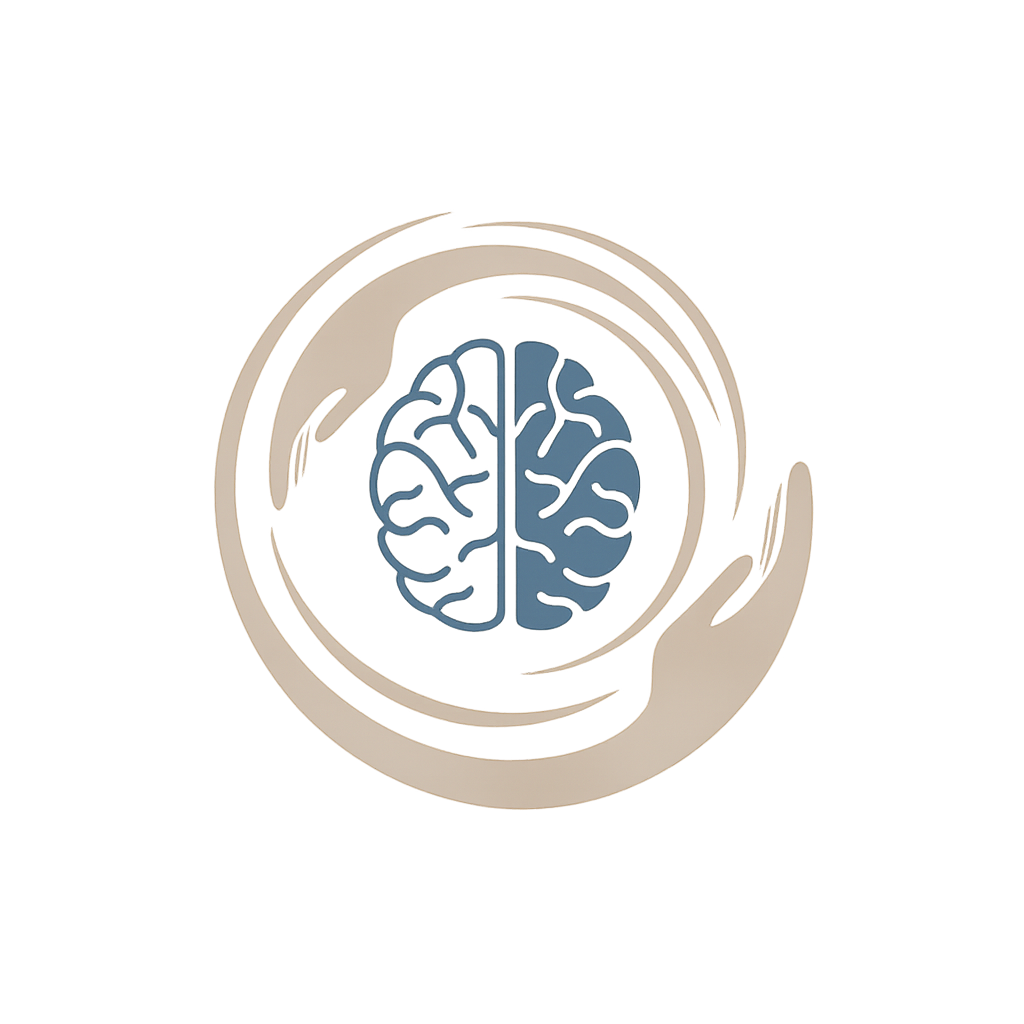
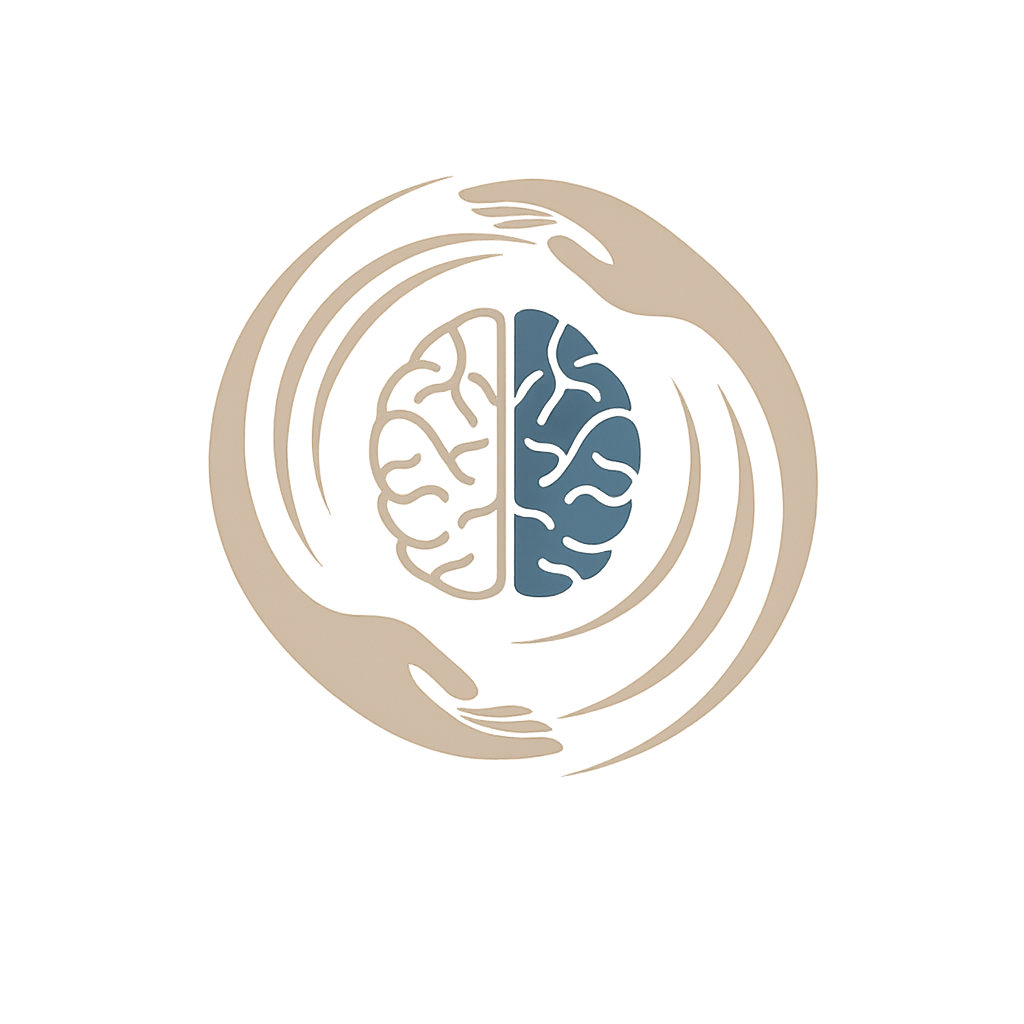
Add files via upload

Changed region(s): [[0.1875, 0.1562, 0.8125, 0.8125]]

diff --git a/css/index.css b/css/index.css
@@ -29,11 +29,6 @@
          height: 70px;
      }
 
-     #mainNav.scrolled {
-         background-color: rgba(35, 58, 78, .6);
-         backdrop-filter: blur(10px);
-         box-shadow: 0 2px 24px rgba(93, 118, 139, 0.08);
-     }
 
      #mainNav .navbar-brand {
          font-family: "Playfair Display", serif;
@@ -44,8 +39,11 @@
          transition: color var(--transition);
      }
 
-     #mainNav.nav.scrolled .navbar-brand {
-         color: var(--dark-color);
+
+     #mainNav.scrolled {
+         background-color: rgba(35, 58, 78, .6);
+         backdrop-filter: blur(10px);
+         box-shadow: 0 2px 24px rgba(93, 118, 139, 0.08);
      }
 
      #mainNav .navbar-brand span {
@@ -57,16 +55,13 @@
          letter-spacing: 1.5px;
          text-transform: uppercase;
          font-weight: 400;
-         color: rgba(248, 239, 229, 0.85) !important;
+         color: rgba(248, 239, 229, 0.85);
          padding: 4px 0 !important;
          margin: 0 14px;
          position: relative;
          transition: color var(--transition);
      }
 
-     #mainNav.nav.scrolled .nav-link {
-         color: var(--dark-color) !important;
-     }
 
      #mainNav .nav-link::after {
          content: "";
@@ -113,7 +108,7 @@
 
 
      #navMenu .nav-link {
-         color: var(--light-color) !important;
+         color: var(--light-color);
      }
 
      header {
@@ -437,11 +432,13 @@
          line-height: 1.6;
      }
 
+     #counter {
+         overflow: hidden;
+     }
+
      #counter .stats {
-         display: flex;
-         justify-content: space-between;
          background: var(--dark-color);
-         padding: 47px 308px;
+         padding: 47px 120px;
          text-align: center;
      }
 
@@ -507,10 +504,10 @@
          background: var(--offWight-color);
          border: 1px solid #e0d6cc;
          border-radius: 20px;
-         padding: 30px 20px;
+         padding: 25px 25px;
          text-align: left;
+         width: 254px;
      }
-
 
      #services .icon {
          width: 55px;

diff --git a/css/index.responsive.css b/css/index.responsive.css
@@ -12,6 +12,16 @@
         margin-top: 8px;
     }
 
+    #mainNav.scrolled .nav-link {
+        color: var(--dark-color);
+    }
+
+    #mainNav.scrolled .nav-item {
+        margin-bottom: 25px;
+
+    }
+
+
     header .inner .item .caption h1 {
         font-size: 40px;
     }
@@ -44,7 +54,21 @@
 
     #counter .stats {
         padding: 25px 16px;
-        font-size: 12px;
+        font-size: 15px;
+    }
+
+    #counter .stat:nth-of-type(1),
+    #counter .stat:nth-of-type(2) {
+        margin-bottom: 25px;
+    }
+
+    #counter .stat .counter {
+        font-size: 25px;
+        margin: 0px;
+    }
+
+    #counter .stat p {
+        margin: 0px;
     }
 
     #services {

diff --git a/index.html b/index.html
@@ -4,7 +4,7 @@
 <head>
   <meta charset="UTF-8">
   <meta name="viewport" content="width=device-width, initial-scale=1.0">
-  <title>kaffa</title>
+  <title>MindCare</title>
   <link rel="stylesheet" href="css/all.min.css">
   <link rel="stylesheet" href="css/bootstrap.min.css">
   <link rel="stylesheet" href="css/fonts.css">
@@ -23,7 +23,7 @@
     <div class="container">
  
       
-      <a class="navbar-brand" href="#home">wan<span>as</span></a>
+      <a class="navbar-brand" href="#home">mind<span>Care</span></a>
       <button class="navbar-toggler" type="button"
               data-bs-toggle="collapse"
               data-bs-target="#navMenu"
@@ -124,26 +124,26 @@ Your Healing</h2>
        
   </section>
   <section id="counter">
-    <div class="stats">
-      <div class="stat">
+    <div class="stats row">
+      <div class="stat col-lg-3 col-6">
         <h2 class="counter" data-target="5000">0
               <span>+k</span>
         </h2>
         <p>Happy Users</p>
       </div>
-      <div class="stat">
+      <div class="stat col-lg-3 col-6">
         <h2 class="counter" data-target="120">0
               <span>+k</span>
         </h2>
         <p>Therapists</p>
       </div>
-      <div class="stat">
+      <div class="stat col-lg-3 col-6">
         <h2 class="counter" data-target="98">0
               <span>+k</span>
         </h2>
         <p>% Positive Reviews</p>
       </div>
-      <div class="stat">
+      <div class="stat col-lg-3 col-6">
         <h2 class="counter" data-target="8">0
                         <span>+k</span>
         </h2>

diff --git a/js/index.js b/js/index.js
@@ -38,12 +38,22 @@ interval = setInterval(autoSlide, 6000);
 
 window.addEventListener("scroll", () => {
   let nav = document.querySelector(".navbar");
-  if (window.scrollY > 50) {
+  if (window.scrollY > 10) {
     nav.classList.add("scrolled");
   } else {
     nav.classList.remove("scrolled");
   }
 })
+const nav = document.getElementById("mainNav");
+const menu = document.getElementById("navMenu");
+
+menu.addEventListener("show.bs.collapse", () => {
+  nav.classList.add("scrolled");
+});
+
+menu.addEventListener("hide.bs.collapse", () => {
+  nav.classList.remove("scrolled");
+});
 const sections = document.querySelectorAll(".animate"),
   observer = new IntersectionObserver((entries) => {
     entries.forEach((entry) => {

diff --git a/css/keyframes.css b/css/keyframes.css
@@ -1,13 +1,10 @@
 @keyframes spin {
     0% {
-        transform: rotate(0deg) scale(1);
+        transform: rotate(0deg);
     }
 
-    50% {
-        transform: rotate(180deg) scale(1.1);
-    }
 
     100% {
-        transform: rotate(360deg) scale(1);
+        transform: rotate(360deg);
     }
 }